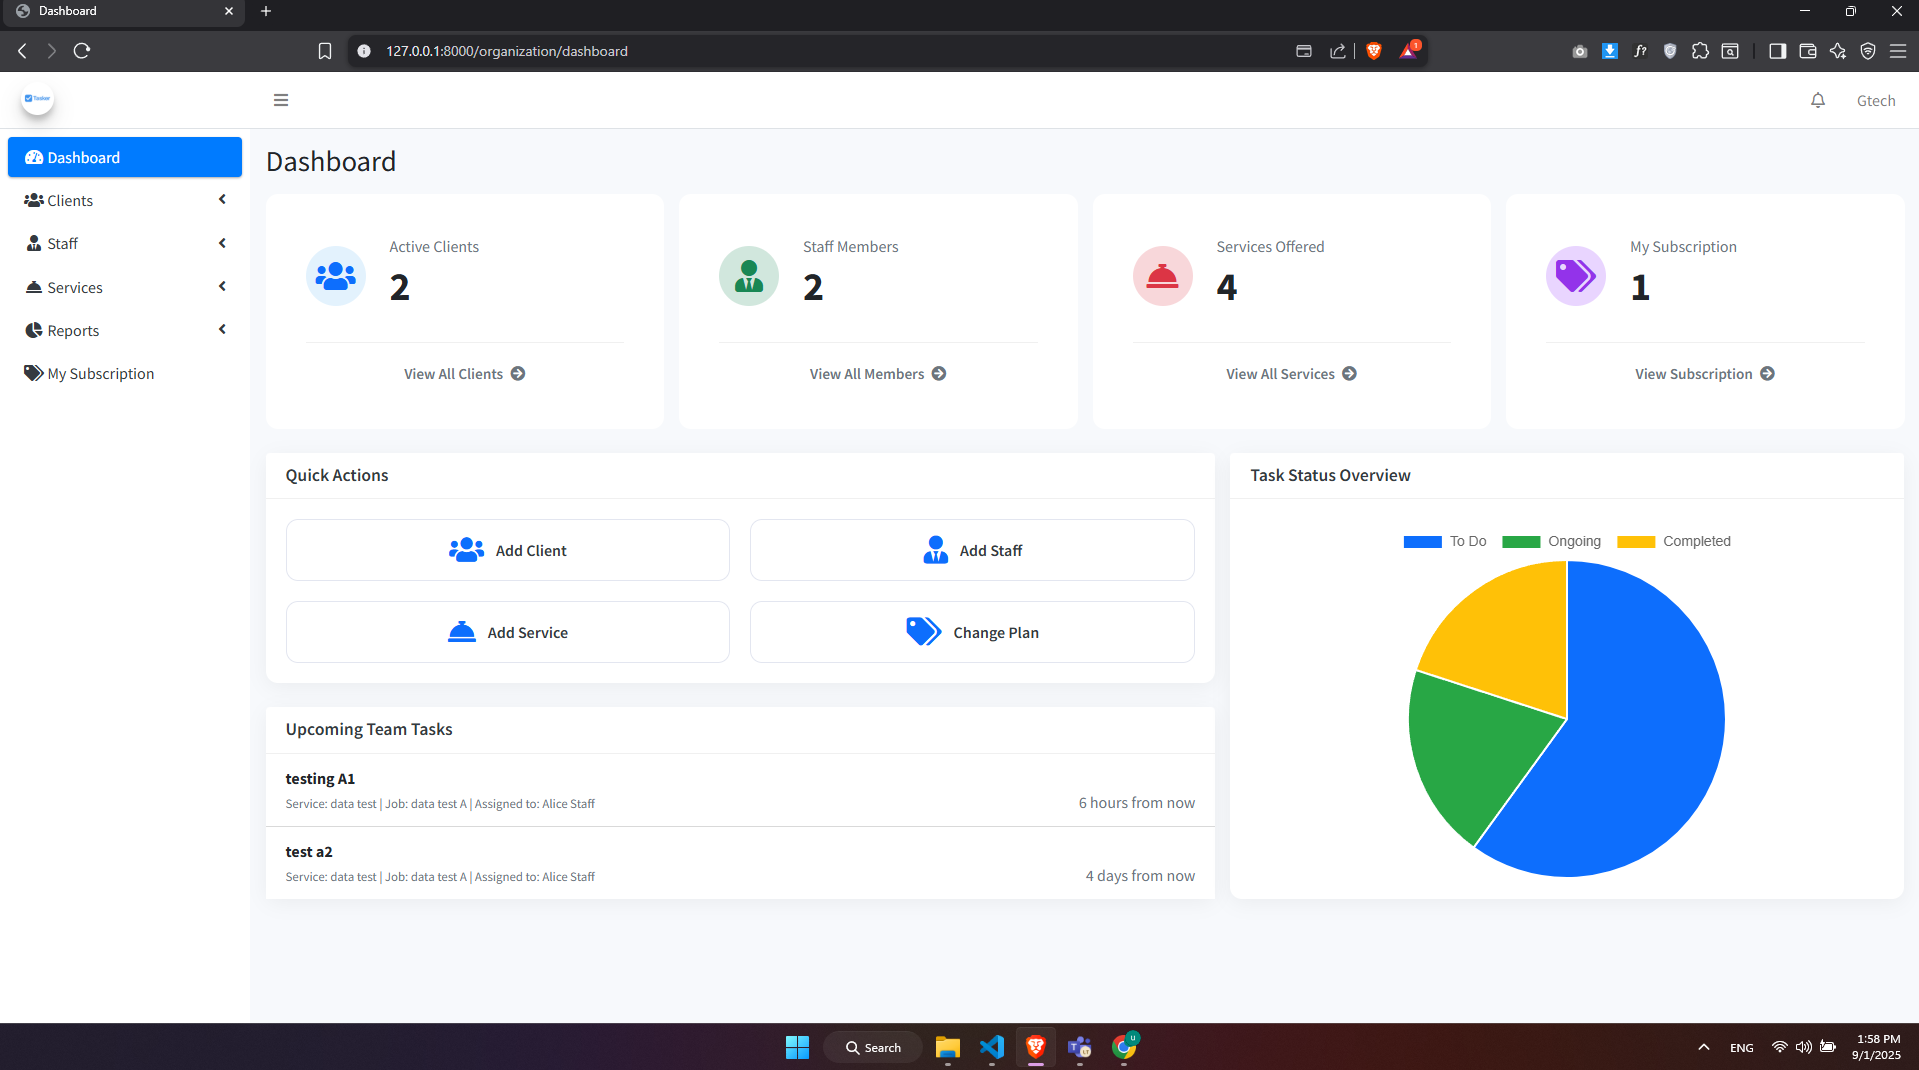
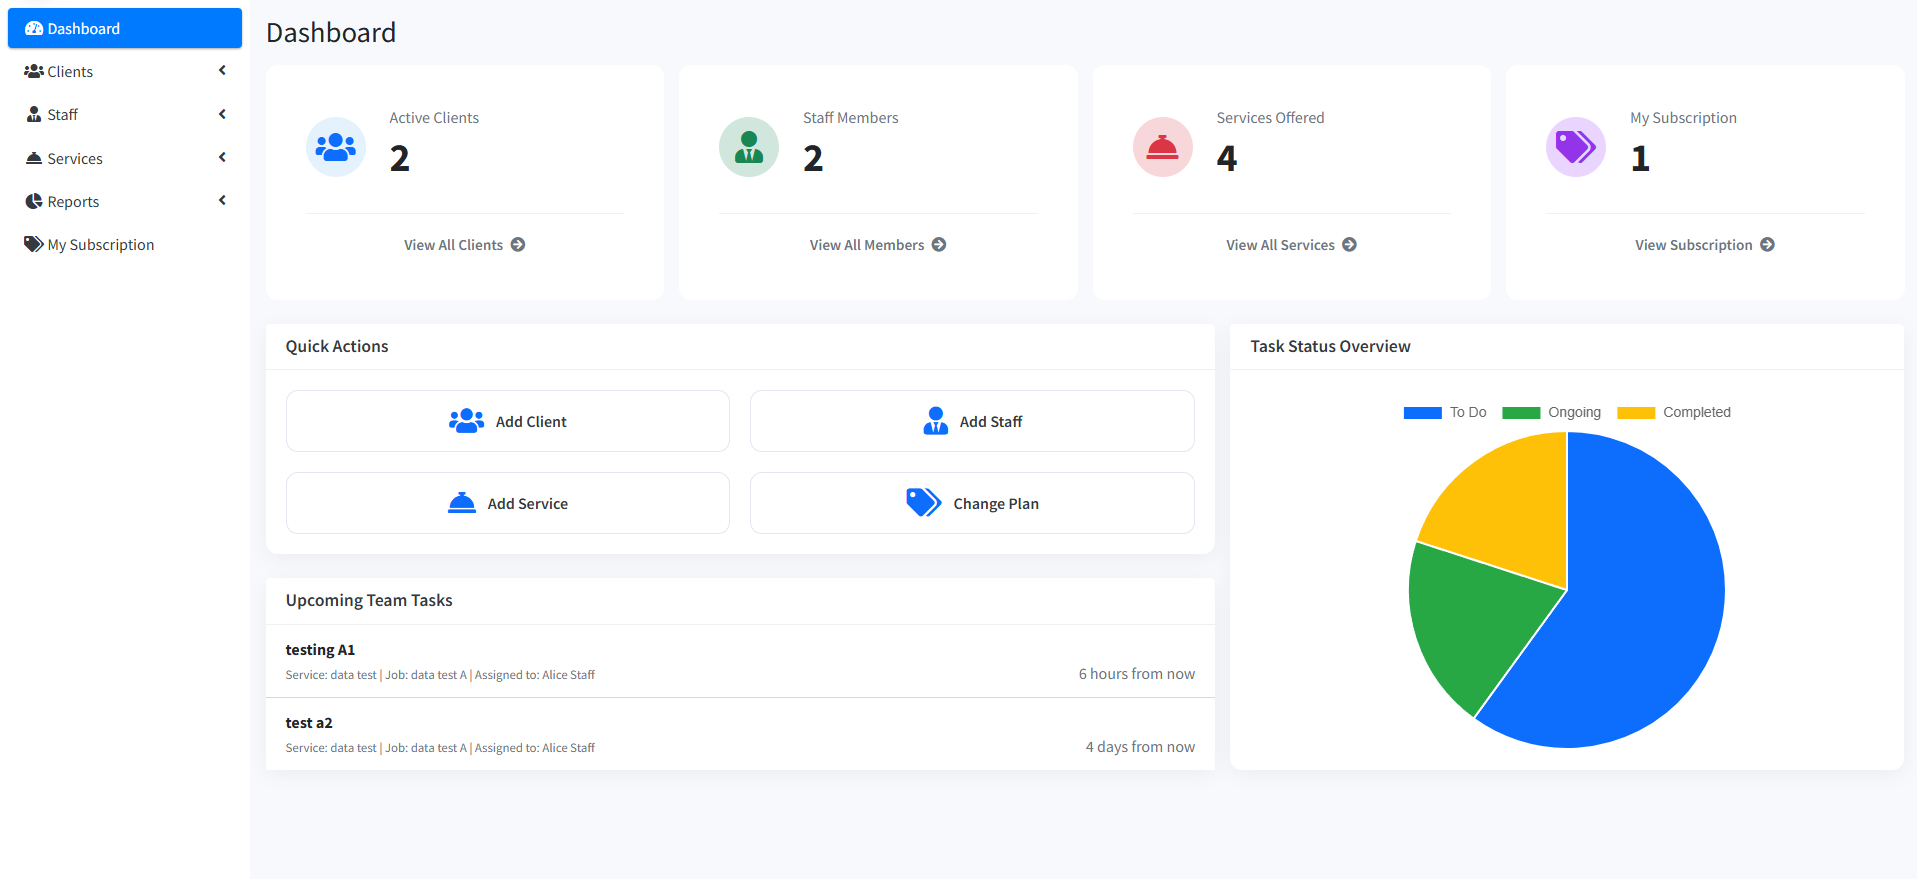
pie chart changes

diff --git a/app/Http/Controllers/Organization/DashboardController.php b/app/Http/Controllers/Organization/DashboardController.php
@@ -127,10 +127,7 @@ class DashboardController extends Controller
     public function staffDashboard()
     {
         $staffId = Auth::id();
-
-        // --- THIS IS THE DEFINITIVE FIX FOR STAFF DASHBOARD COUNTS & CHART ---
         
-        // Calculate all counts based on 'to_do', 'ongoing', and 'completed' statuses
         $toDoPersonalCount = Task::where('staff_id', $staffId)->whereNull('job_id')->where('status', 'to_do')->count();
         $toDoAssignedCount = AssignedTask::whereHas('staff', fn($q) => $q->where('users.id', $staffId))->where('status', 'to_do')->count();
         $toDoTaskCount = $toDoPersonalCount + $toDoAssignedCount;
@@ -142,11 +139,9 @@ class DashboardController extends Controller
         $completedPersonalCount = Task::where('staff_id', $staffId)->whereNull('job_id')->where('status', 'completed')->count();
         $completedAssignedCount = AssignedTask::whereHas('staff', fn($q) => $q->where('users.id', $staffId))->where('status', 'completed')->count();
         $completedTaskCount = $completedPersonalCount + $completedAssignedCount;
-
-        // Active tasks are now To Do + Ongoing
+        
         $activeTaskCount = $toDoTaskCount + $ongoingTaskCount;
 
-        // Calculate documents count for clients associated with this staff member
         $associatedClientIds = AssignedTask::whereHas('staff', function ($q) use ($staffId) {
                 $q->where('users.id', $staffId);
             })
@@ -155,21 +150,21 @@ class DashboardController extends Controller
 
         $documentsCount = ClientDocument::whereIn('client_id', $associatedClientIds)->count();
 
-        // Data for Pie Chart: To Do vs Ongoing Tasks
+        // --- THIS IS THE FIX ---
+        // Data for Pie Chart now includes all statuses to prevent the "no data" issue.
         $chartData = collect([
             'to_do' => $toDoTaskCount,
             'ongoing' => $ongoingTaskCount,
+            'completed' => $completedTaskCount,
         ]);
+        // --- END OF FIX ---
 
         $chartLabels = $chartData->keys()->map(fn($s) => ucwords(str_replace('_', ' ', $s)));
         $chartDataValues = $chartData->values();
 
-        // --- END OF FIX ---
-
-        // Fetch Upcoming Personal tasks
         $personalTasks = Task::where('staff_id', $staffId)
             ->whereNull('job_id')
-            ->whereIn('status', ['to_do', 'ongoing']) // Show both types of active tasks
+            ->whereIn('status', ['to_do', 'ongoing'])
             ->whereNotNull('start')
             ->where('start', '>=', now())
             ->orderBy('start', 'asc')
@@ -181,7 +176,6 @@ class DashboardController extends Controller
                 return $task;
             });
 
-        // Fetch Upcoming Assigned client tasks
         $assignedTasks = AssignedTask::whereHas('staff', fn($q) => $q->where('users.id', $staffId))
             ->whereIn('status', ['to_do', 'ongoing'])
             ->whereNotNull('start')
@@ -195,8 +189,7 @@ class DashboardController extends Controller
                 $task->task_details = "Service: {$task->service->name} | Job: {$task->job->name} | Client: {$task->client->name}";
                 return $task;
             });
-
-        // Combine and sort tasks for the upcoming list
+        
         $allTasks = $personalTasks->concat($assignedTasks);
         $upcomingTasks = $allTasks->sortBy('start')->take(10);
         

diff --git a/resources/views/Organization/staff/dashboard.blade.php b/resources/views/Organization/staff/dashboard.blade.php
@@ -237,8 +237,10 @@
                         labels: @json($chartLabels),
                         datasets: [{
                             data: @json($chartDataValues),
-                            backgroundColor: [ '#ffc107', '#17a2b8' ], // Yellow for To Do, Teal for Ongoing
-                            borderColor: [ '#ffffff', '#ffffff' ],
+                            // --- THIS IS THE FIX ---
+                            // To Do => Blue, Ongoing => Yellow, Completed => Green
+                            backgroundColor: [ '#0d6efd', '#ffc107', '#28a745' ],
+                            borderColor: [ '#ffffff', '#ffffff', '#ffffff' ],
                             borderWidth: 2
                         }]
                     },

diff --git a/resources/views/Client/dashboard.blade.php b/resources/views/Client/dashboard.blade.php
@@ -255,9 +255,9 @@
                         datasets: [{
                             data: @json($chartDataValues),
                             backgroundColor: [
-                                '#ffc107', // Warning (yellow) for To Do
-                                '#0dcaf0', // Info (teal) for Ongoing
-                                '#198754'  // Success (green) for Completed
+                                '#0d6efd', // Blue for To Do
+                                '#ffc107', // Yellow for Ongoing
+                                '#28a745'  // --- THIS IS THE FIX --- Green for Completed
                             ],
                             borderColor: '#ffffff',
                             borderWidth: 2

diff --git a/resources/views/Organization/dashboard.blade.php b/resources/views/Organization/dashboard.blade.php
@@ -303,8 +303,8 @@
                         datasets: [{
                             data: @json($chartData),
                             // --- THIS IS THE FIX ---
-                            // Assigns blue to "To Do", green to "Ongoing", and yellow to "Completed"
-                            backgroundColor: [ '#0d6efd', '#28a745', '#ffc107', '#dc3545', '#6c757d' ],
+                            // To Do => Blue, Ongoing => Yellow, Completed => Green
+                            backgroundColor: [ '#0d6efd', '#ffc107', '#28a745' ],
                             borderColor: '#ffffff',
                             borderWidth: 2
                         }]

diff --git a/resources/views/SuperAdmin/dashboard.blade.php b/resources/views/SuperAdmin/dashboard.blade.php
@@ -6,7 +6,7 @@
     <h1>Dashboard</h1>
 @stop
 
-{{-- NEW: Custom CSS for the final modern dashboard UI --}}
+{{-- THIS IS THE FIX: Added the modern dashboard CSS --}}
 @section('css')
 <style>
     /* General Page & Card Styling */
@@ -171,7 +171,7 @@
 @stop
 
 @section('content')
-{{-- Top Row Info Boxes - Redesigned with larger cards --}}
+{{-- THIS IS THE FIX: Replaced the old "small-box" divs with the new "stat-card-modern" structure --}}
 <div class="row">
     <div class="col-lg-3 col-md-6 mb-4">
         <a href="{{ route('superadmin.organizations.index') }}" class="stat-card-link d-block h-100">
